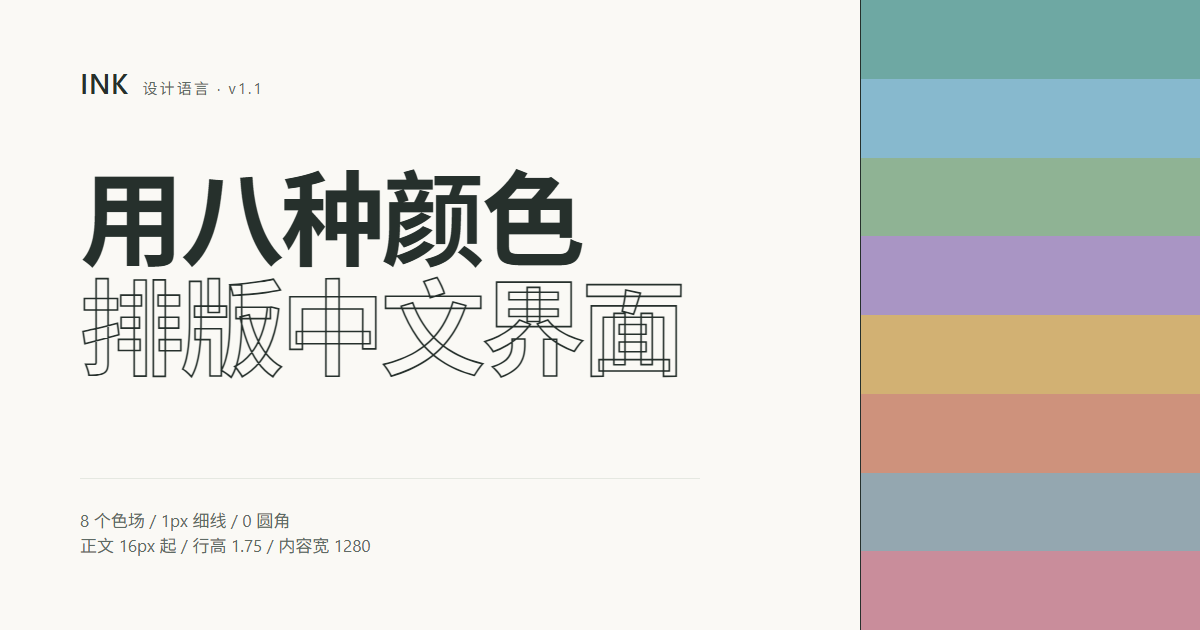
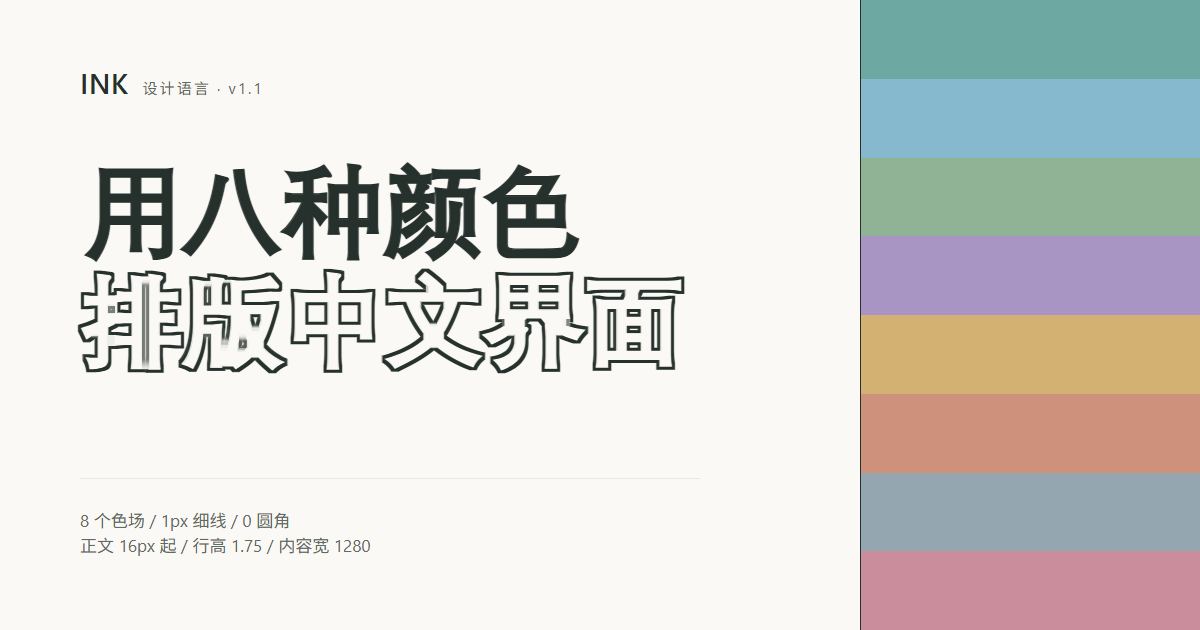
update: INK Design Language site

Changed region(s): [[0.0617, 0.2413, 0.5858, 0.6032]]

diff --git a/assets/site.css b/assets/site.css
@@ -192,18 +192,24 @@ a { color: var(--ink-link); text-decoration-thickness: 1px; text-underline-offse
 
 .display {
   margin: 0;
+  font-family: var(--ink-font-display);
   font-size: var(--ink-size-display);
-  font-weight: var(--ink-weight-display);
+  font-weight: var(--ink-weight-hero);
   line-height: var(--ink-leading-display);
   letter-spacing: var(--ink-tracking-display);
   color: var(--ink-text-primary);
 }
 
-.display__line { display: block; }
+.display__line {
+  display: block;
+  -webkit-text-stroke: var(--ink-stroke-solid) var(--ink-ink);
+}
 
-/* 轮廓字：整字空心，与方向 B（瑞士海报）样张同一做法。
-   600 字重 + 1.6px 墨色描边，形状填透明；描边宽度小于笔画宽度，
-   所以空心只沿每根笔画走一圈，不会把整字糊成一块。 */
+
+/* 轮廓字：整字空心。不是沿每根笔画描边（那样笔画之间会断开、密集处发糊），
+   而是先用 SVG feMorphology 把整个字形外扩合并，再减去内缩形状，只留外轮廓环。
+   滤镜定义在 index.html 顶部（#ink-outline / -md / -sm），三档半径见 site.css 断点。
+   不支持 URL 滤镜时退回 2.4px 墨色描边，观感接近但笔画不合并。 */
 .display__outline {
   display: block;
   color: transparent;
@@ -211,9 +217,23 @@ a { color: var(--ink-link); text-decoration-thickness: 1px; text-underline-offse
   -webkit-text-stroke: var(--ink-stroke-display) var(--ink-ink);
 }
 
-@supports not (-webkit-text-stroke: 1px black) {
-  .display__outline { color: var(--ink-ink); }
+@supports (filter: blur(0px)) {
+  .display__outline {
+    color: var(--ink-ink);
+    -webkit-text-fill-color: var(--ink-ink);
+    -webkit-text-stroke-width: 0;
+    filter: url(#ink-outline);
+  }
 }
+
+.svg-defs {
+  position: absolute;
+  width: 0;
+  height: 0;
+  overflow: hidden;
+}
+
+.svg-defs feFlood { flood-color: var(--ink-ink); }
 
 .hero__lead {
   max-width: 30em;
@@ -889,8 +909,9 @@ a { color: var(--ink-link); text-decoration-thickness: 1px; text-underline-offse
 }
 
 .sample--display {
+  font-family: var(--ink-font-display);
   font-size: var(--ink-size-display);
-  font-weight: var(--ink-weight-display);
+  font-weight: var(--ink-weight-hero);
   line-height: var(--ink-leading-display);
   letter-spacing: var(--ink-tracking-display);
 }
@@ -1204,11 +1225,16 @@ a { color: var(--ink-link); text-decoration-thickness: 1px; text-underline-offse
 }
 
 @media (max-width: 980px) {
-  .display__outline { -webkit-text-stroke-width: 1.4px; }
+  .display__outline { -webkit-text-stroke-width: 2px; }
+  @supports (filter: blur(0px)) {
+    .display__outline { filter: url(#ink-outline-md); }
+  }
 }
 
 @media (max-width: 680px) {
   .brand__sub { display: none; }
+
+  .display__line { -webkit-text-stroke-width: 1px; }
 
   .site-nav {
     gap: var(--ink-space-3);
@@ -1228,7 +1254,10 @@ a { color: var(--ink-link); text-decoration-thickness: 1px; text-underline-offse
     padding: var(--ink-space-6) var(--ink-gutter) var(--ink-space-7);
   }
 
-  .display__outline { -webkit-text-stroke-width: 1.2px; }
+  .display__outline { -webkit-text-stroke-width: 1.6px; }
+  @supports (filter: blur(0px)) {
+    .display__outline { filter: url(#ink-outline-sm); }
+  }
 
   .hero__foot { flex-direction: column; align-items: flex-start; gap: var(--ink-space-3); }
 

diff --git a/spec/typography.html b/spec/typography.html
@@ -51,13 +51,13 @@
     <div class="wrap">
       <div class="section-head">
         <span class="mono-label section-head__index">01 / 字体</span>
-        <h2 class="section-head__title">三个角色，两套字体栈</h2>
-        <p class="section-head__lede">展示、正文、等宽各占一行；展示和正文共用一套系统无衬线，靠字重分开。</p>
+        <h2 class="section-head__title">三个角色，三套字体栈</h2>
+        <p class="section-head__lede">展示、正文、等宽各占一行；展示用系统里最重的黑体，正文和标题共用系统无衬线栈。</p>
       </div>
 
       <div class="type-list">
         <div class="type-row">
-          <div class="type-row__name">展示<span class="type-row__spec">--ink-font · 600</span></div>
+          <div class="type-row__name">展示<span class="type-row__spec">--ink-font-display · 700</span></div>
           <div class="type-row__sample sample--display">八色场 Aa</div>
         </div>
         <div class="type-row">
@@ -70,7 +70,7 @@
         </div>
       </div>
 
-      <p class="note">全部系统字体，不下载字体文件。macOS 落苹方，Windows 落微软雅黑。</p>
+      <p class="note">全部系统字体，不下载字体文件。macOS 落苹方，Windows 落雅黑；首屏展示优先等线 Bold。</p>
     </div>
   </section>
 
@@ -84,7 +84,7 @@
 
       <div class="type-list">
         <div class="type-row">
-          <div class="type-row__name">展示<span class="type-row__spec">--ink-size-display · 600</span></div>
+          <div class="type-row__name">展示<span class="type-row__spec">--ink-size-display · 700</span></div>
           <div class="type-row__sample sample--display">八个色场</div>
         </div>
         <div class="type-row">
@@ -171,12 +171,15 @@
 <pre class="code-block__body" id="type-tokens"><code>  /* 字体 */
   --ink-font: -apple-system, BlinkMacSystemFont, "Segoe UI", "PingFang SC",
     "HarmonyOS Sans SC", "Noto Sans SC", "Microsoft YaHei", sans-serif;
+  --ink-font-display: "DengXian", "PingFang SC", "HarmonyOS Sans SC",
+    "Noto Sans SC", "Microsoft YaHei", sans-serif;
   --ink-font-mono: "Cascadia Code", "SFMono-Regular", Consolas,
     "Liberation Mono", monospace;
 
   /* 字重与字号 */
   --ink-weight-body: 400;
   --ink-weight-display: 600;
+  --ink-weight-hero: 700;
   --ink-weight-strong: 600;
 
   --ink-size-display: clamp(3.25rem, 8vw, 7.5rem);    /* 52 → 120px */
@@ -194,10 +197,11 @@
   --ink-leading-body: 1.75;
   --ink-tracking-display: -0.035em;
   --ink-tracking-label: 0.14em;
-  --ink-stroke-display: 1.6px;</code></pre>
+  --ink-stroke-display: 2.4px;
+  --ink-stroke-solid: 1.4px;</code></pre>
       </div>
 
-      <p class="note">字重只有 400 和 600 两档。标题用 600，正文用 400。</p>
+      <p class="note">字重分三档：正文 400，标题 600，首屏 700 加 1.4px 描边加粗。</p>
     </div>
   </section>
 

diff --git a/index.html b/index.html
@@ -20,6 +20,32 @@
 <body>
 <a class="skip-link" href="#main">跳到正文</a>
 
+<svg class="svg-defs" aria-hidden="true" focusable="false" width="0" height="0">
+  <defs>
+    <filter id="ink-outline" x="-16%" y="-16%" width="132%" height="132%" color-interpolation-filters="sRGB">
+      <feMorphology in="SourceAlpha" operator="dilate" radius="3" result="fat"></feMorphology>
+      <feMorphology in="fat" operator="erode" radius="3" result="inner"></feMorphology>
+      <feComposite in="fat" in2="inner" operator="out" result="ring"></feComposite>
+      <feFlood></feFlood>
+      <feComposite in2="ring" operator="in"></feComposite>
+    </filter>
+    <filter id="ink-outline-md" x="-16%" y="-16%" width="132%" height="132%" color-interpolation-filters="sRGB">
+      <feMorphology in="SourceAlpha" operator="dilate" radius="2" result="fat"></feMorphology>
+      <feMorphology in="fat" operator="erode" radius="2" result="inner"></feMorphology>
+      <feComposite in="fat" in2="inner" operator="out" result="ring"></feComposite>
+      <feFlood></feFlood>
+      <feComposite in2="ring" operator="in"></feComposite>
+    </filter>
+    <filter id="ink-outline-sm" x="-16%" y="-16%" width="132%" height="132%" color-interpolation-filters="sRGB">
+      <feMorphology in="SourceAlpha" operator="dilate" radius="1" result="fat"></feMorphology>
+      <feMorphology in="fat" operator="erode" radius="1" result="inner"></feMorphology>
+      <feComposite in="fat" in2="inner" operator="out" result="ring"></feComposite>
+      <feFlood></feFlood>
+      <feComposite in2="ring" operator="in"></feComposite>
+    </filter>
+  </defs>
+</svg>
+
 <header class="site-header">
   <div class="wrap">
     <div class="site-header__inner">

diff --git a/tokens.css b/tokens.css
@@ -52,12 +52,16 @@
   /* --- 字体 ----------------------------------------------------------- */
   --ink-font: -apple-system, BlinkMacSystemFont, "Segoe UI", "PingFang SC",
     "HarmonyOS Sans SC", "Noto Sans SC", "Microsoft YaHei", sans-serif;
+  /* 展示栈：等线/苹方这类几何黑体，笔画均匀、字洞大，适合做整字空心。 */
+  --ink-font-display: "DengXian", "PingFang SC", "HarmonyOS Sans SC",
+    "Noto Sans SC", "Microsoft YaHei", sans-serif;
   --ink-font-mono: "Cascadia Code", "SFMono-Regular", Consolas,
     "Liberation Mono", monospace;
 
   /* --- 字重与字号 ----------------------------------------------------- */
   --ink-weight-body: 400;
-  --ink-weight-display: 600;
+  --ink-weight-display: 600;   /* 章节标题、小节标题 */
+  --ink-weight-hero: 700;      /* 首屏两行：等线 Bold / 苹方 Semibold */
   --ink-weight-strong: 600;
 
   --ink-size-display: clamp(3.25rem, 8vw, 7.5rem);    /* 52 → 120px */
@@ -75,7 +79,9 @@
   --ink-leading-body: 1.75;
   --ink-tracking-display: -0.035em;
   --ink-tracking-label: 0.14em;
-  --ink-stroke-display: 1.6px;   /* 轮廓字描边；980 → 1.4，680 → 1.2 */
+  --ink-stroke-display: 2.4px;   /* 轮廓字兜底描边；980 → 2，680 → 1.6 */
+  --ink-stroke-solid: 1.4px;     /* 首屏实心行加粗描边；680 → 1px */
+
 
   /* --- 间距：只用这十个数 --------------------------------------------- */
   --ink-space-1: 4px;

diff --git a/AGENTS.md b/AGENTS.md
@@ -15,7 +15,7 @@
 
 1. **零依赖。** 没有框架、构建、CDN、外链字体、图标库。页面只引 `tokens.css`、`assets/site.css`、`assets/site.js`、`assets/favicon.svg`。
 2. **只用 token。** 颜色、字号、间距、时长都写 `var(--ink-*)`。不在页面里写 `#hex`、`rgb()`、裸 px 间距。
-3. **不新增设计语言。** 不加色相、不加圆角、不加渐变、不加玻璃拟态、不加第三种字体。
+3. **不新增设计语言。** 不加色相、不加圆角、不加渐变、不加玻璃拟态。字体只用系统栈：正文栈、展示栈（首屏专用）、等宽栈，不外链字体文件。
 4. **一屏一块色场。** 色场里只放 `--ink-text-on-color`。反白只放在 `--ink-ink-deep` 底上。
 5. **文案按 DESIGN.md 第 8 节。** 动词开头，给数字，一句一事。禁止破折号，禁止「不是……而是……」，禁止「让……」句式。
 6. **可访问性不回退。** skip link、`:focus-visible`、`aria-current`、44px 触控、`prefers-reduced-motion` 降级，一个都不能少。
@@ -154,7 +154,7 @@
 - **翻页：** `.pager` 加 `.pager__link`（`--next`），内部 `__dir`、`__title`。
 - **浮层：** `<dialog class="sheet" id="…">` 加 `.sheet__inner/__head/__title/__close/__body/__steps/__step/__step-num/__step-title/__step-text/__actions`。触发写 `data-sheet-open="id"`，关闭写 `data-sheet-close`。
 - **页脚：** `.site-footer` 四列加 `.site-footer__bottom`，示例触发按钮用 `.link-button`。
-- **轮廓字：** `.display__outline` 用 600 字重 + `-webkit-text-stroke: var(--ink-stroke-display)`（桌面 1.6px，980px 及以下 1.4px，680px 及以下 1.2px），形状填透明。不要写裸描边宽度，也不要给轮廓字加滤镜或加粗到 700。
+- **轮廓字：** 首屏两行都用展示字体（`--ink-font-display`，等线 Bold）。第一行 `.display__line` 实心，靠 `-webkit-text-stroke: var(--ink-stroke-solid)` 加粗；第二行 `.display__outline` 是整字空心，靠 `index.html` 顶部的 SVG 滤镜（`#ink-outline` / `-md` / `-sm`）先合并字形再取外轮廓环。半径只在 SVG `defs` 与 `site.css` 的两个断点里写，不要分散到页面。不支持 URL 滤镜时自动退回描边。
 - **目录行：** `.chapter-index` 加 `a.chapter-row`（`--lake` 等八种色），内部 `__num`、`__title`、`__lede`、`__arrow`。悬停时整行填色。
 
 新增 class 之前先看 `site.css` 有没有现成的；没有就用现成组合表达，并在提交说明里写清楚。页面里不写 `<style>`。
